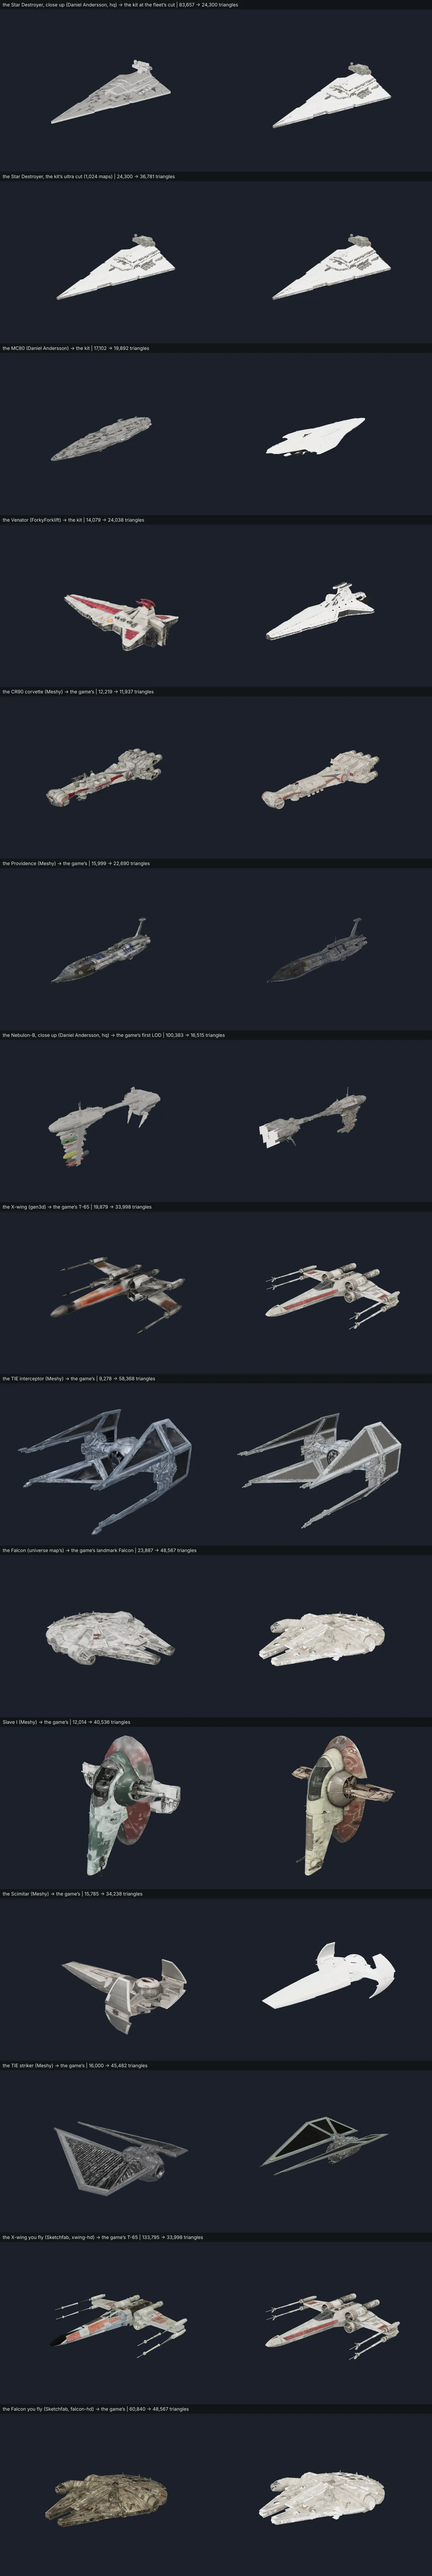
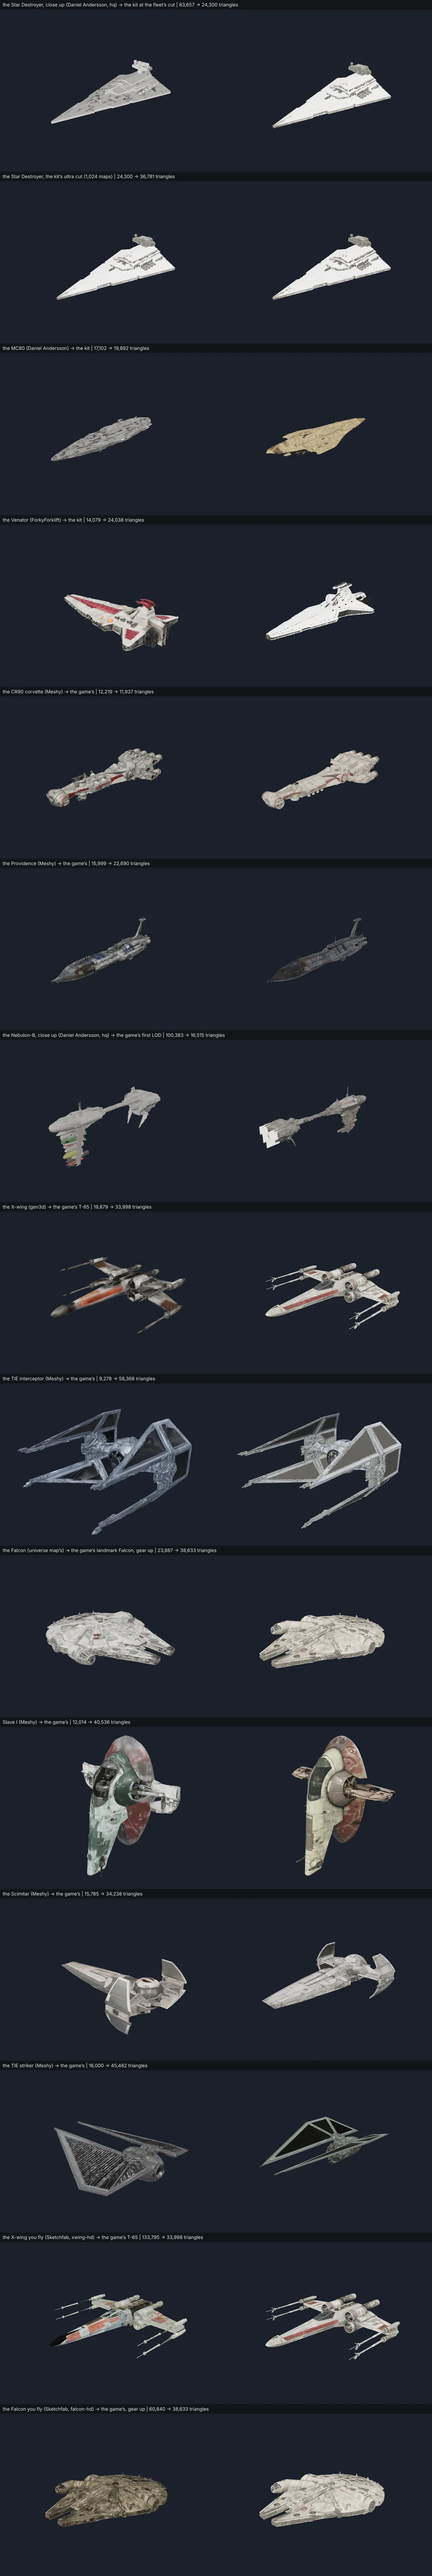
Lane S1: the sheet re-shot with the MC80, the Scimitar and the Falcon fixed
Claude-Session: https://claude.ai/code/session_01Lir8B5LnJzj9qRka8oq94o

diff --git a/docs/superpowers/evidence/bf2017-space/s1/README.md b/docs/superpowers/evidence/bf2017-space/s1/README.md
@@ -4,7 +4,7 @@ The plan is `docs/superpowers/plans/2026-10-11-bf2017-space-laneS1-fleet.md`; th
 
 ## The sheet
 
-`../fleet-2017.webp`: each kind the galaxy drew before (left) beside the game’s (right), the same camera (`scripts/glb-shot.mjs`’s `three` view), with the triangles. Rows: the Star Destroyer (Daniel Andersson’s close-up cut, 83,657 triangles → the kit at the fleet’s cut, 24,300; then the kit’s ultra cut, 36,781), the MC80 (17,102 → 19,892: its main hull is white there, its maps bound in a shader graph the drop’s GLB does not name; the galaxy draws it hull grey), the Venator (14,079 → 24,038), the CR90 (12,219 → 11,937), the Providence (15,999 → 22,690), the close-up Nebulon-B (100,383 → 16,515), the X-wing (gen3d’s 19,879 → 33,998), the TIE interceptor (9,278 → 58,368), the Falcon (23,887 → 48,567), Slave I (12,014 → 40,536), the Scimitar (15,785 → 34,238; the sheet was shot before its cloaked materials took the hull’s maps), the TIE striker (16,000 → 45,482), and the two ships you fly (Sketchfab’s xwing-hd 133,795 → 33,998; falcon-hd 60,840 → 48,567).
+`../fleet-2017.webp` (re-shot after the MC80’s, the Scimitar’s and the Falcon’s fixes): each kind the galaxy drew before (left) beside the game’s (right), the same camera (`scripts/glb-shot.mjs`’s `three` view), with the triangles. Rows: the Star Destroyer (Daniel Andersson’s close-up cut, 83,657 triangles → the kit at the fleet’s cut, 24,300; then the kit’s ultra cut, 36,781), the MC80 (17,102 → 19,892: its hull in its own panel colour, bound by hand from the drop since its shader graph names it nowhere in the GLB), the Venator (14,079 → 24,038), the CR90 (12,219 → 11,937), the Providence (15,999 → 22,690), the close-up Nebulon-B (100,383 → 16,515), the X-wing (gen3d’s 19,879 → 33,998), the TIE interceptor (9,278 → 58,368), the Falcon (23,887 → 38,633, gear up), Slave I (12,014 → 40,536), the Scimitar (15,785 → 34,238, its cloaked materials on the hull’s own maps), the TIE striker (16,000 → 45,482), and the two ships you fly (Sketchfab’s xwing-hd 133,795 → 33,998; falcon-hd 60,840 → 38,633, gear up).
 
 ## The gate
 
